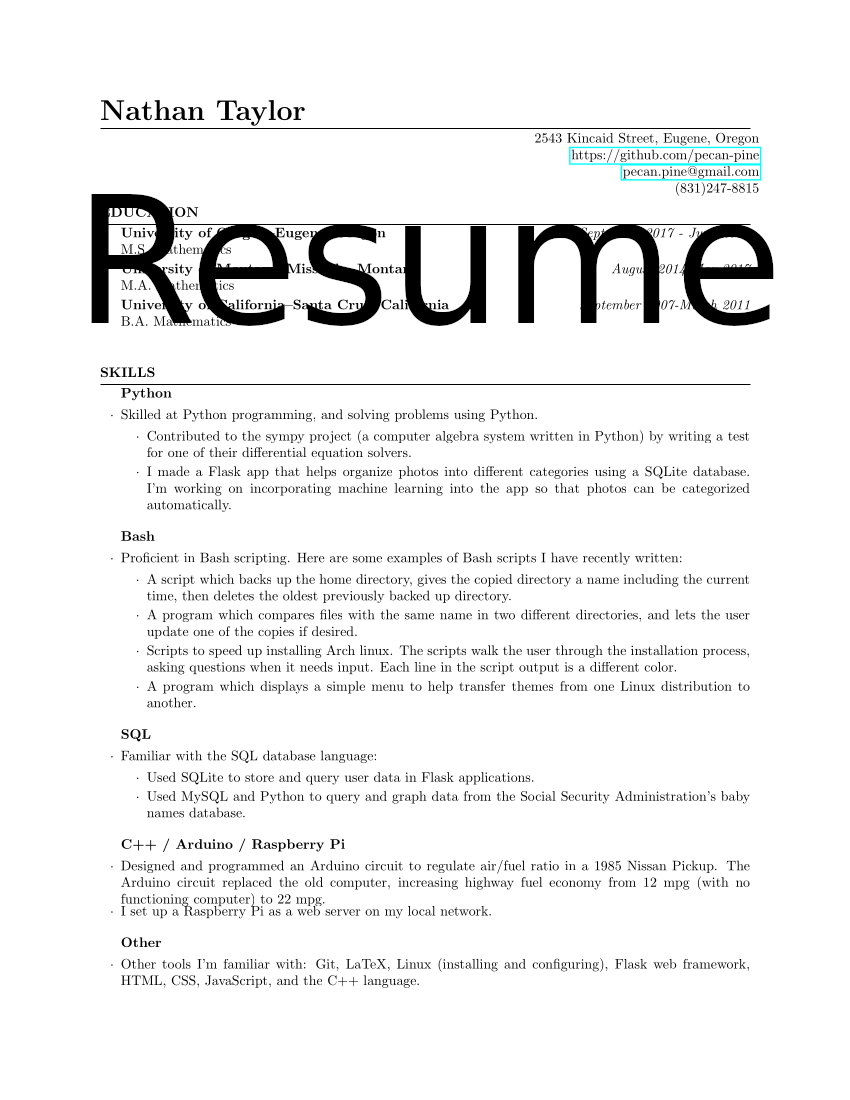
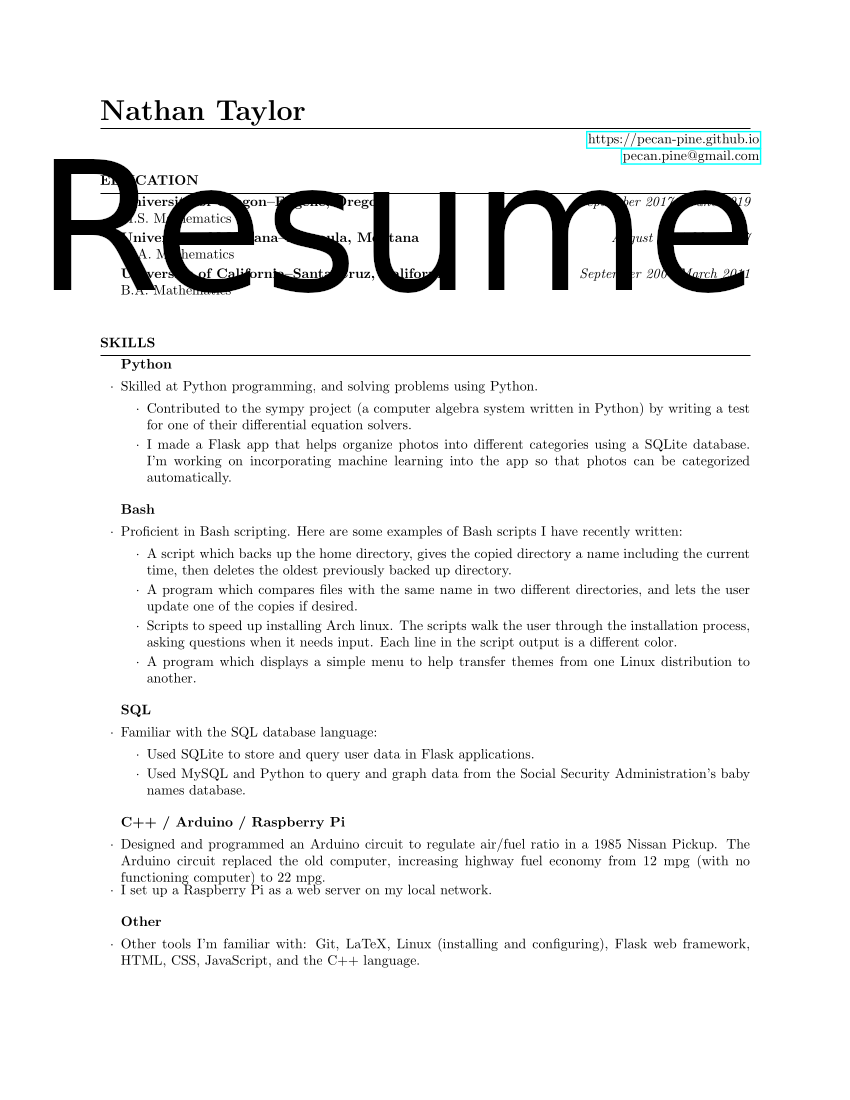
changed picture to smaller file size, updated contact with links

Changed region(s): [[0.0612, 0.0927, 0.9176, 0.8964], [0.7341, 0.8345, 0.8565, 0.8964], [0.6424, 0.8345, 0.7035, 0.8964]]

diff --git a/contact.js b/contact.js
@@ -3,7 +3,8 @@ function contact(output){
     <div> Contact Information:</div>
     <div>Nathan Taylor</div>
     <div>pecan.pine@gmail.com</div>
-    <div>https://github.com/pecan-pine</div>
-    <div>https://pecan-pine.github.io</div>
+    <div><a href="https://github.com/pecan-pine">https://github.com/pecan-pine</a></div>
+    <div><a href="https://pecan-pine.github.io">https://pecan-pine.github.io</a></div>
+    <div><a href="https://www.linkedin.com/in/nathan-taylor-74312a184">LinkedIn </a></div>
     `;
 }

diff --git a/orbit.html b/orbit.html
@@ -58,7 +58,7 @@
 <div id="textArea">
 </div>
 
-<img id="pictureOfMe" src="meAtUO2.JPG"/>
+<img id="pictureOfMe" src="meAtUO.JPG"/>
 
 <div id="verticalLine">
 <div id="bottomTextArea">
